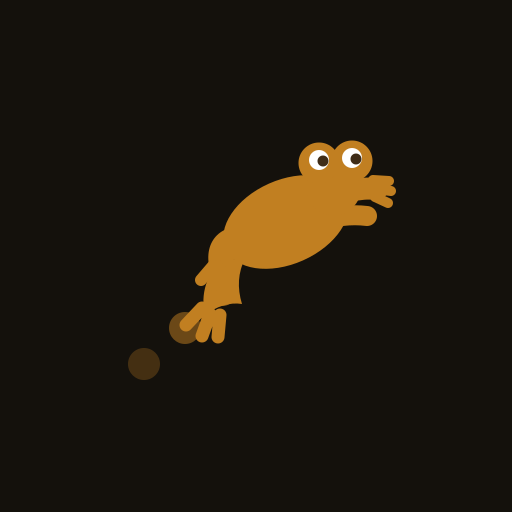
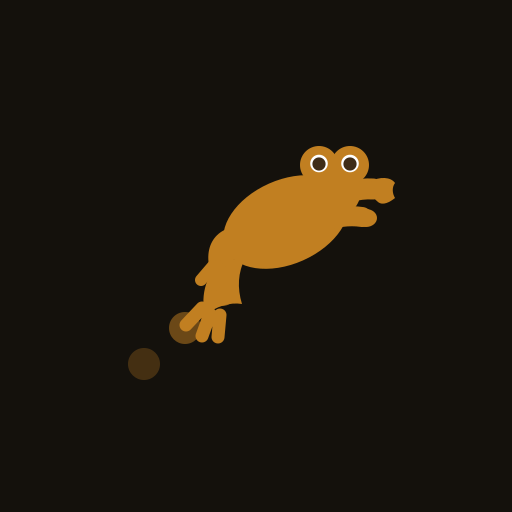
Polish the leap-frog mark: calmer eyes, cleaner webbed hands
Centre the pupils and enlarge them relative to the whites so the eyes
read as focused rather than googly; shrink the eye domes slightly and
sit them lower for a tighter head. Replace the three stroke-toes on the
front arm with a single filled webbed paddle, add a small tucked rear
fist, and grow the head circle to close the neck gap.

icon.svg / icon-maskable.svg updated to match; PNGs + splash regenerated.

Changed region(s): [[0.5625, 0.25, 0.7812, 0.4375], [0.6875, 0.4375, 0.7188, 0.4688]]

diff --git a/src/components/logo.tsx b/src/components/logo.tsx
@@ -52,36 +52,34 @@ export function FrogMark({ className }: { className?: string }) {
         transform="rotate(-24 19 13.6)"
         fill={brand}
       />
-      {/* reaching arms */}
+      {/* reaching arms, webbed front hand + tucked rear fist */}
       <path
-        d="M22 13.6C23.8 13 25.5 12.8 27.1 13"
+        d="M22.2 13.7C23.8 13.1 25.3 12.9 26.6 13.1"
         stroke={brand}
         strokeWidth="2"
         strokeLinecap="round"
         fill="none"
       />
       <path
-        d="M22.6 11.6C24.5 10.6 26.3 10.1 28.1 10.3"
+        d="M22.6 11.6C24.5 10.7 26.2 10.2 27.7 10.3"
         stroke={brand}
-        strokeWidth="2.2"
+        strokeWidth="2.1"
         strokeLinecap="round"
         fill="none"
       />
       <path
-        d="M27.7 9.4L29.3 9.5M27.9 10.3L29.5 10.5M27.9 11.1L29.2 11.7"
-        stroke={brand}
-        strokeWidth="1"
-        strokeLinecap="round"
-        fill="none"
+        d="M27.3 9.6C28.4 9 29.5 9.1 29.9 9.7C29.6 10.1 29.6 10.7 29.9 11.2C29.4 11.6 28.7 12 28.2 11.6C27.6 11.1 27 10.3 27.3 9.6Z"
+        fill={brand}
       />
+      <ellipse cx="27" cy="13.2" rx="1.1" ry="0.9" fill={brand} />
       {/* head */}
-      <circle cx="23.8" cy="10.2" r="2.7" fill={brand} />
-      <circle cx="22.3" cy="7.7" r="2.05" fill={brand} />
-      <circle cx="25.6" cy="7.5" r="2.05" fill={brand} />
-      <circle cx="22.3" cy="7.4" r="1" fill="#ffffff" />
-      <circle cx="25.6" cy="7.2" r="1" fill="#ffffff" />
-      <circle cx="22.7" cy="7.5" r="0.55" fill={ink} />
-      <circle cx="26" cy="7.3" r="0.55" fill={ink} />
+      <circle cx="23.6" cy="10.4" r="2.9" fill={brand} />
+      <circle cx="22.3" cy="7.9" r="1.9" fill={brand} />
+      <circle cx="25.4" cy="7.9" r="1.9" fill={brand} />
+      <circle cx="22.3" cy="7.75" r="0.88" fill="#ffffff" />
+      <circle cx="25.4" cy="7.75" r="0.88" fill="#ffffff" />
+      <circle cx="22.3" cy="7.8" r="0.66" fill={ink} />
+      <circle cx="25.4" cy="7.8" r="0.66" fill={ink} />
     </svg>
   );
 }
